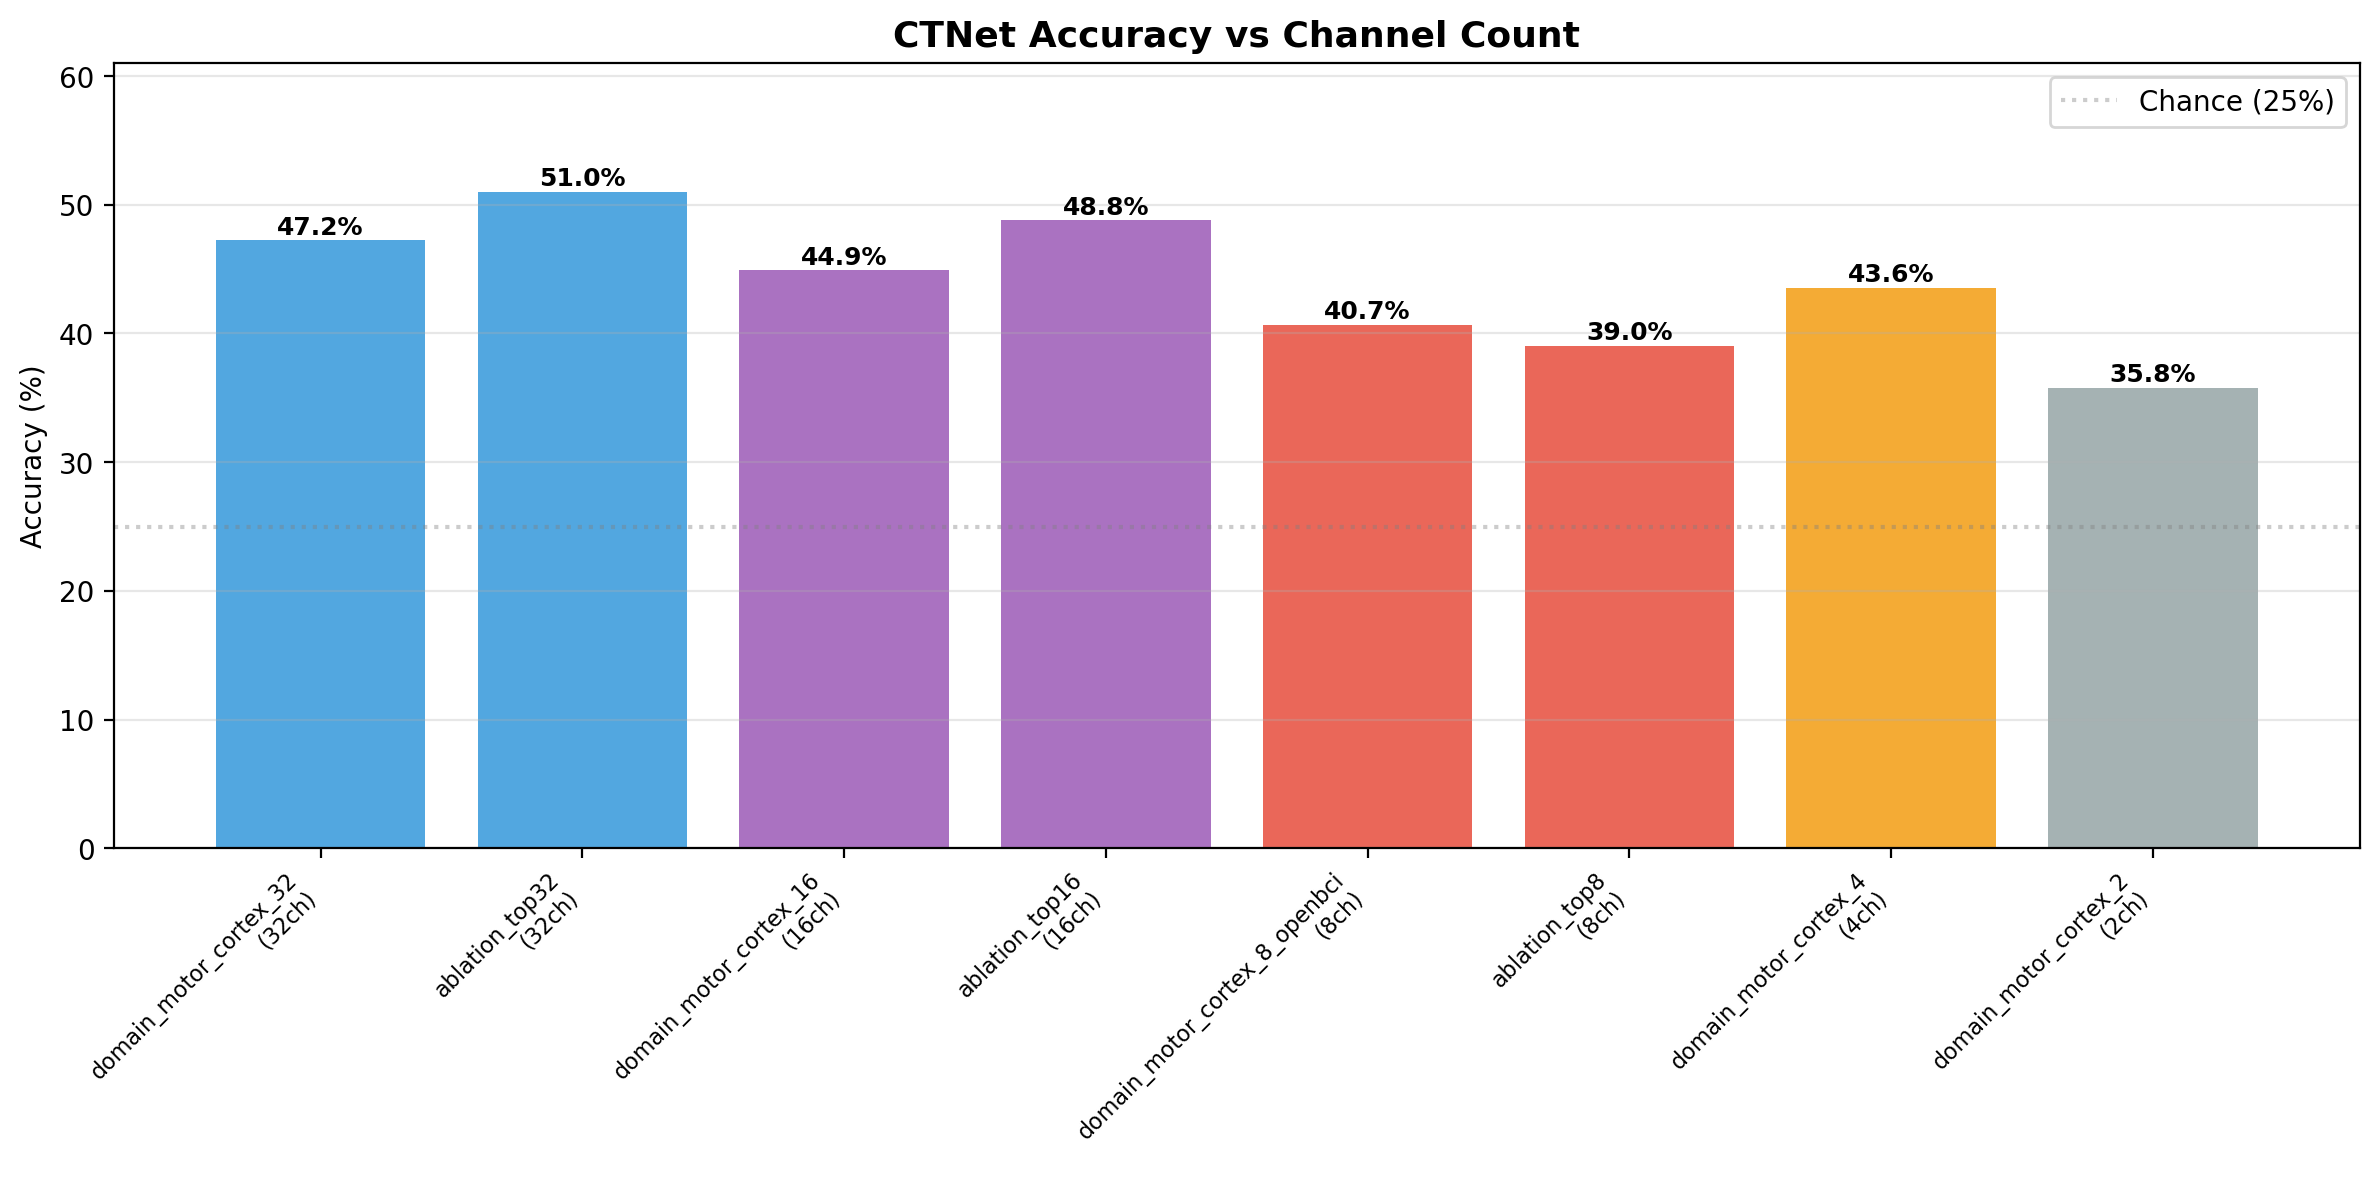
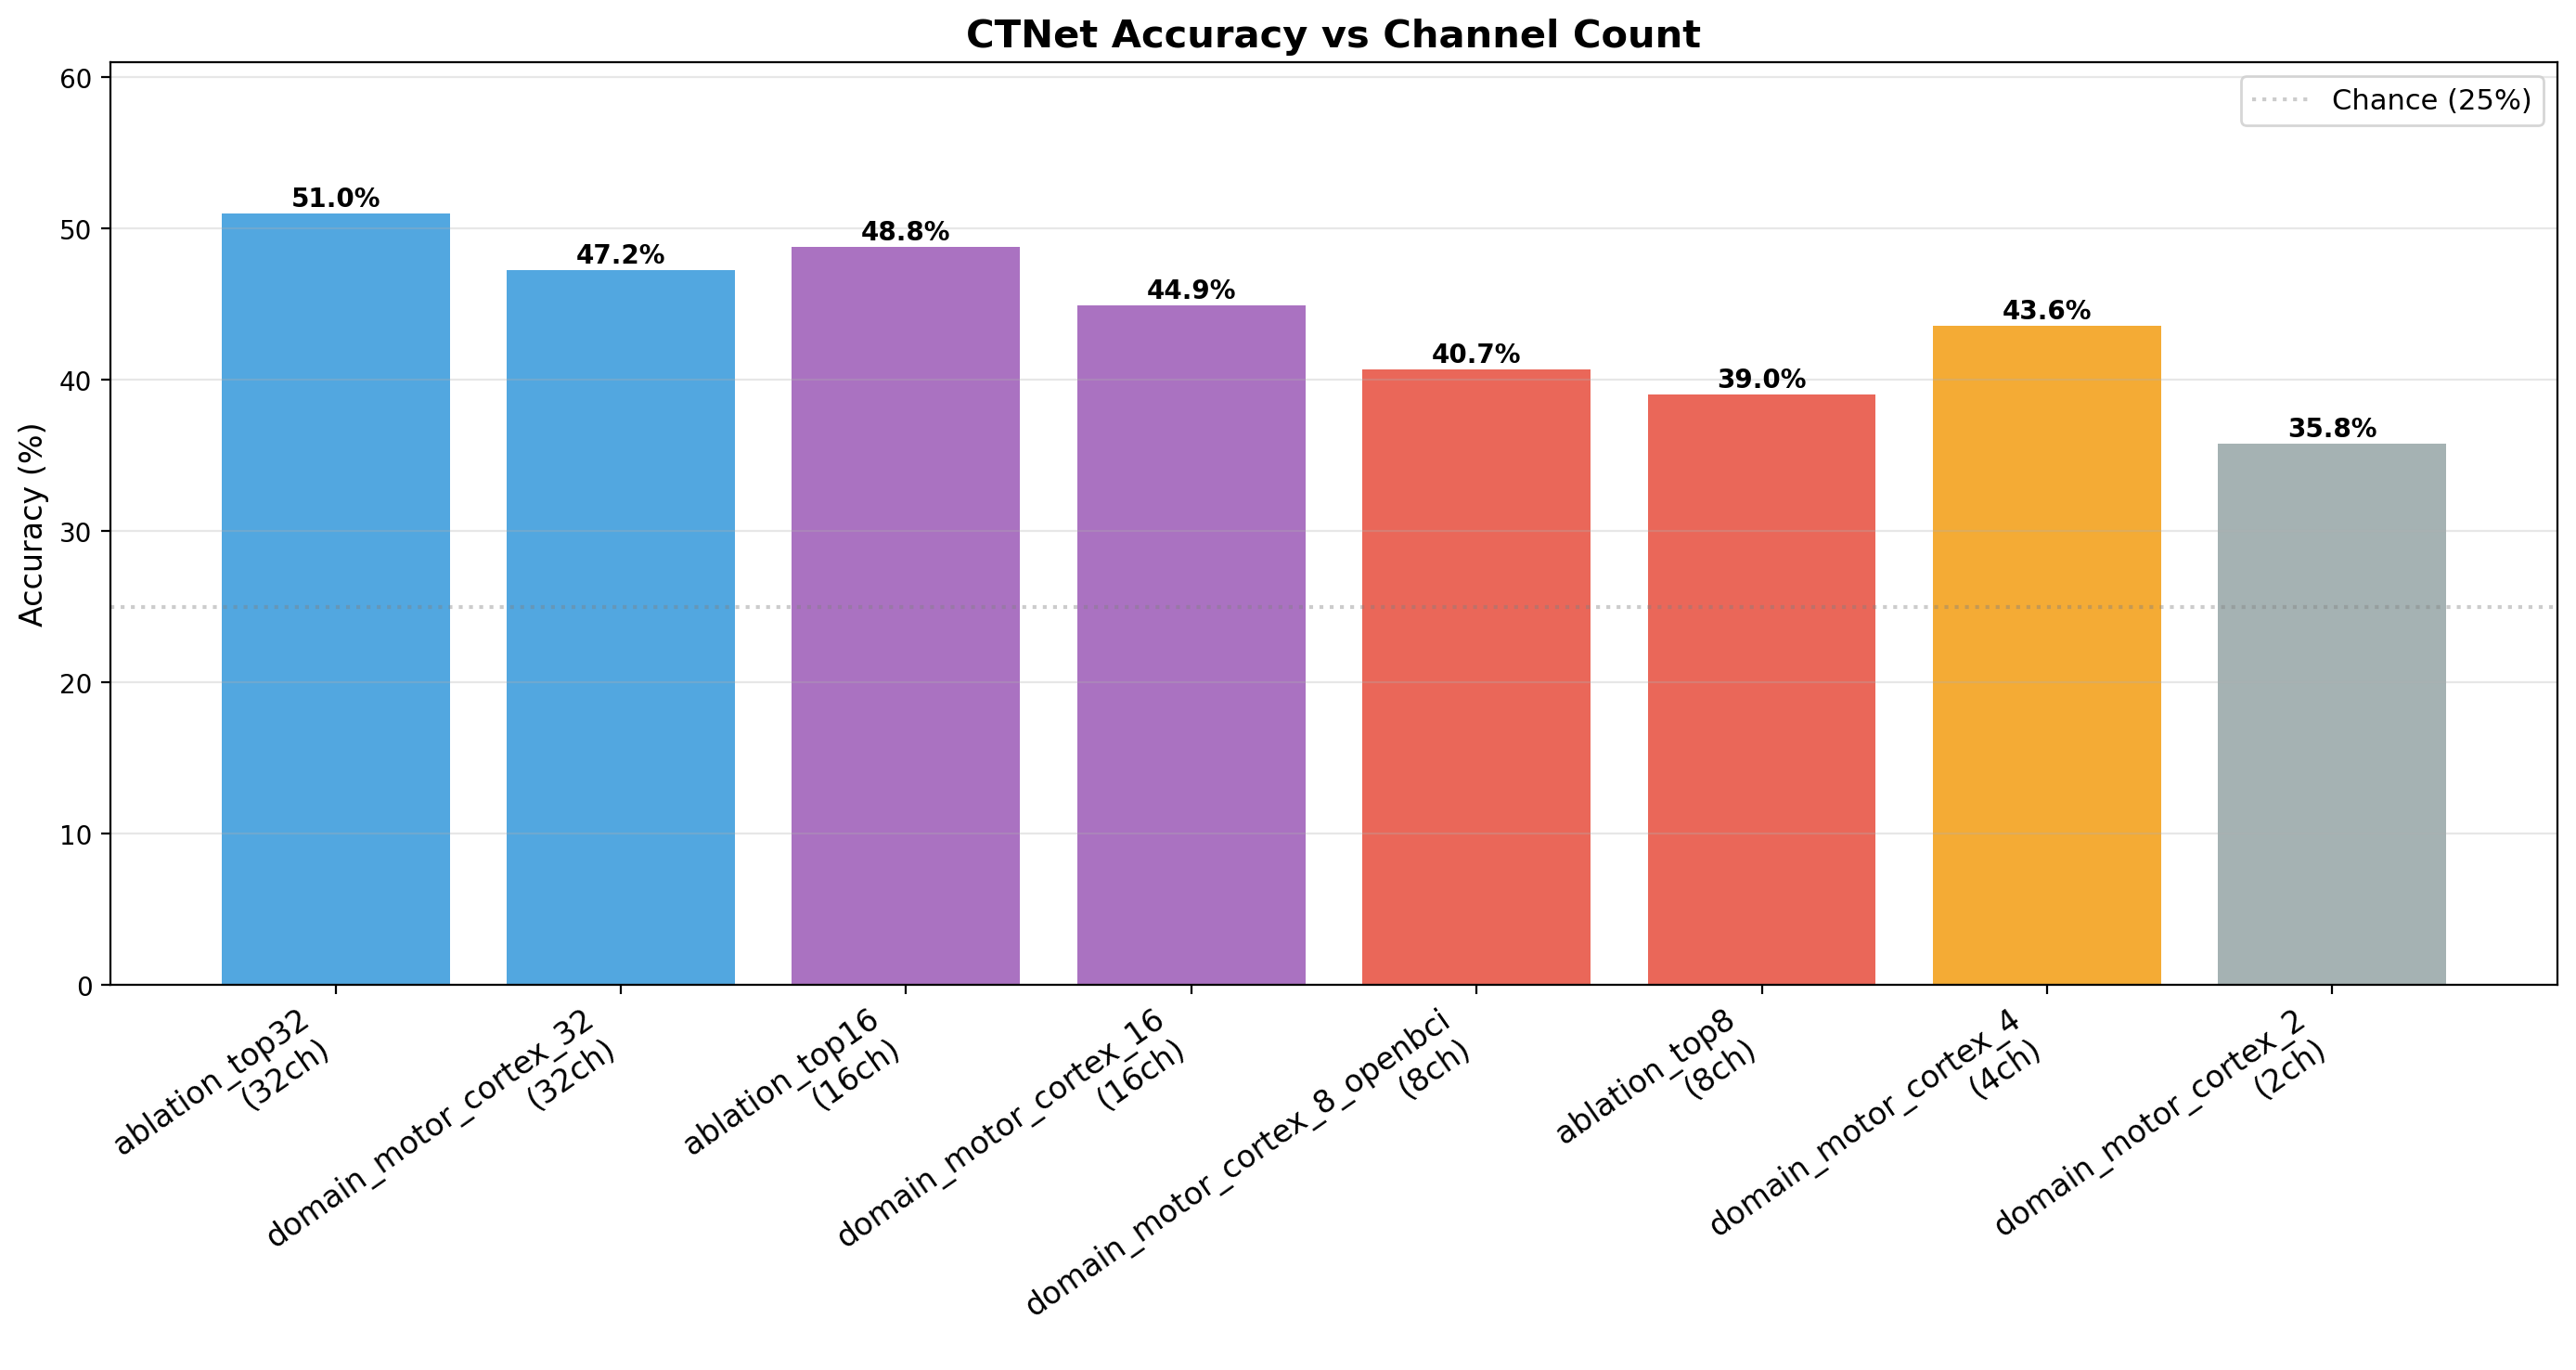
Refine final report v13 length and figures

diff --git a/01_Reports/final_report_draft_v13.tex b/01_Reports/final_report_draft_v13.tex
@@ -797,7 +797,7 @@ Figure~\ref{fig:channel_importance} explains why C3 appears repeatedly in the re
 
 \begin{figure}[htbp]
 \centering
-\includegraphics[width=0.78\textwidth]{../03_Experiments/Channel_Reduction/channel_reduction/channel_reduction_comparison.png}
+\includegraphics[width=0.92\textwidth]{../03_Experiments/Channel_Reduction/channel_reduction/channel_reduction_comparison.png}
 \caption{Cross-subject PhysioNet accuracy under progressive channel reduction. The comparison separates domain-guided motor-cortex subsets from ablation-ranked subsets, showing that channel identity matters as much as channel count.}
 \label{fig:channel_reduction_comparison}
 \end{figure}
@@ -955,7 +955,7 @@ ICA improved accuracy for two of three subjects (S3: $+1.74\%$; S7: $+5.56\%$) b
 
 \textbf{Filter Ablation Study.}\quad To definitively prove the necessity of the 8--30\,Hz bandpass filter, a controlled ablation experiment was conducted on PhysioNet data using the \emph{same fine-tuning protocol} as the main results. Five subjects (S3, S7, S9, S38, S43) were fine-tuned from the 109-subject pre-trained model under two conditions: (A)~with 8--30\,Hz bandpass filtering, and (B)~without any filtering (raw normalised data). Results are summarised in Table~\ref{tab:filter_ablation}.
 
-\begin{table}[h]
+\begin{table}[htbp]
 \centering
 \caption{Filter ablation study: subject-specific fine-tuning accuracy (\%) with and without 8--30\,Hz bandpass filtering.}
 \label{tab:filter_ablation}
@@ -1038,39 +1038,13 @@ The results show that the hybrid classifier remains competitive across heterogen
 \section{Project Management}
 %=============================================================================
 
-Project management formed part of the main project workflow throughout the year rather than being treated as a separate administrative task. An initial Gantt chart divided the work into sequential but partly overlapping packages: dataset preparation, reproduction of baseline classification pipelines, development of the hybrid EEGTransformer, transfer-learning experiments, channel reduction, RL control design, and finally hardware integration. This ordering was intentional. It reduced project risk by ensuring that later stages depended on earlier validated outputs rather than on untested assumptions. For example, the RL stage was postponed until a stable classification interface had been defined, and hardware-oriented work was not treated as the main validation route because ethical approval constraints made a simulation-first strategy more realistic.
+Project management was integrated into the technical workflow rather than treated as a separate administrative task. The initial Gantt chart divided the work into dataset preparation, baseline reproduction, EEGTransformer development, transfer learning, channel reduction, RL control, and hardware integration. This sequence reduced risk by making later stages depend on validated outputs. For example, RL development began only after a stable classifier interface was available, and hardware work remained secondary to offline and simulation validation because live human testing was outside the approved project scope.
 
-Progress was monitored through weekly supervision meetings, interim report drafts, and version-controlled code and experiment outputs. These checkpoints were not only administrative; they directly affected technical decisions. When early results showed that small 9-subject datasets were insufficient to support a strong cross-subject argument, the project scope was revised to include the 109-participant PhysioNet evaluation. Likewise, when OpenBCI deployment emerged as an important practical target, the channel-reduction study was elevated from an optional extension to a core work package. In this sense, scope change was managed through evidence rather than through ad hoc feature expansion: new tasks were added only when they strengthened the main research question.
+Progress was tracked through weekly supervision meetings, interim report drafts, version-controlled code, and saved experiment outputs. These checkpoints shaped the technical direction. Early 9-subject results were not sufficient for a strong cross-subject argument, so the scope was extended to the 109-participant PhysioNet evaluation. When OpenBCI deployment became a practical target, channel reduction moved from an optional extension to a core work package. The main deliverables were therefore tied to evidence: benchmark tables and saved models for classification, fine-tuning summaries for transfer learning, ablation plots for channel selection, RL logs for controller design, and BrainFlow traces for interface validation.
 
-Risk management was handled continuously alongside technical work. A formal health-and-safety assessment was maintained for the hardware aspects of the project, while technical risks were tracked through contingency planning. One major risk concerned the complexity of robotic control: a full high-DOF manipulation setting would have consumed disproportionate development time, so a simplified planar reaching environment was adopted for the main RL comparison. A second risk concerned dataset heterogeneity and weak cross-subject generalisation; this was mitigated by adding transfer learning and participant-specific fine-tuning rather than relying only on pooled models. A third risk concerned reproducibility, addressed through structured experiment scripts, saved model artefacts, and preservation of outputs under the repository's experiment directories.
+Risk management combined technical contingency planning with the formal University health-and-safety process. The main technical risks were excessive robotic-control complexity, weak cross-subject generalisation, and poor reproducibility. They were mitigated by using a planar reaching task for the main RL comparison, adding participant-specific fine-tuning, and preserving scripts, model artefacts, and experiment outputs in the repository. The health-and-safety assessment covered display-screen work, electrical equipment, lone working, fire risk, software/data loss, robotic-arm electrical setup, pinch or impact hazards, object displacement, and unexpected BCI-driven arm motion. Controls included ergonomic working practice, cable and power-supply inspection, keeping liquids away from electrical equipment, maintaining a clear operating zone, reduced-speed physical tests, workspace and velocity limits, clear warning before movement, a minimum 0.5\,m observer distance, and immediate power-off access. The formal artefact is stored as \texttt{05\_Documentation/Risk assessment form-11314389\_v3.pdf}.
 
-Health and safety was managed through the University risk-assessment process rather than left to informal judgement. The maintained assessment covered prolonged display-screen work, general electrical equipment, lone working, fire risk, software/data loss, robotic-arm electrical setup, mechanical pinch or impact hazards, object displacement, and unexpected BCI-driven arm motion. The main controls were ergonomic workstation practice and regular breaks; visual inspection of cables and power supplies; keeping liquids away from electrical equipment; maintaining an unobstructed operating zone around the arm; reduced-speed physical tests; software limits on workspace, velocity, and joint range; clear warning before movement; a minimum 0.5\,m observer distance; and immediate access to a power-off emergency stop. Because live human EEG testing was outside the approved project scope, the BCI evaluation used public datasets and simulation, which substantially reduced participant and hardware risk. The formal artefact is stored as \texttt{05\_Documentation/Risk assessment form-11314389\_v3.pdf}.
-
-The project budget was intentionally kept small by using public datasets, open-source software, and existing personal computing equipment. The only project-specific purchase was an SO-101 robotic arm kit from AliExpress, costing \pounds178.20. This kit included the 3D-printed arm components, servo motors, bench vice, controller/electronics board, and communication cables required for physical setup and serial-control testing. Model training was carried out on the author's own desktop computer with an Intel i9-13900K CPU and NVIDIA RTX 4070 Ti GPU; because this machine was already personally owned before the project, it is not counted as a project budget item.
-
-\begin{table}[htbp]
-\centering
-\caption{Major project deliverables and the evidence retained for assessment and reproducibility.}
-\label{tab:deliverable_evidence}
-\small
-\begin{tabular}{@{} >{\raggedright\arraybackslash}p{3.2cm} >{\raggedright\arraybackslash}p{4.6cm} >{\raggedright\arraybackslash}p{5.0cm} @{}}
-\toprule
-\textbf{Work package} & \textbf{Deliverable produced} & \textbf{Evidence retained} \\
-\midrule
-Classifier development & EEGTransformer adapted to 22-, 3-, 64-, and reduced-channel inputs & Training scripts, saved model outputs, benchmark tables, and architecture diagram \\
-Transfer learning & Pooled PhysioNet model plus participant-specific fine-tuning workflow & Fine-tuning summaries, per-subject fold results, and comparison figure \\
-Channel reduction & Ranked electrodes and OpenBCI-oriented 8-channel configuration & Ablation outputs, channel-importance plots, topographic visualisation, and reduced-channel accuracy comparison \\
-Controller design & Transformer and Light Transformer DQN policies for planar reaching & Architecture-comparison logs, reward/reach metrics, and saved policy artefacts \\
-End-to-end integration & EEG classification output connected to simulated robotic control & Multi-subject sequence logs and comparison between state-only and EEG-augmented control \\
-Hardware pathway & BrainFlow acquisition wrapper and SO-101 serial-control interface & Synthetic-board validation logs, position traces, and risk controls for future physical testing \\
-Project governance & Planning, risk assessment, health-and-safety record, and CPD evidence & Gantt chart, risk register, health-and-safety artefact, CPD log, and repository README \\
-\bottomrule
-\end{tabular}
-\end{table}
-
-Table~\ref{tab:deliverable_evidence} shows how the project was made auditable. Each work package produced both an implemented artefact and a retained evidence trail. This was important because the report could otherwise understate the amount of engineering work behind the final figures. For example, the channel-reduction result is not only a single 8-channel accuracy value; it is supported by ablation rankings, domain-guided electrode selection, topographic inspection, and a separate fine-tuning recovery experiment. Similarly, the hardware pathway is not presented as a completed live-user BCI, but it is supported by interface-level checks that make the remaining ethical and experimental steps clearer for a future continuation project.
-
-Time management also required deliberate balancing between implementation, experimentation, and writing. The software pipeline could easily have expanded indefinitely, especially on the hardware side, so milestones were defined in terms of verifiable deliverables: a reproducible classification result, a validated transfer-learning workflow, a reduced-channel comparison, an RL controller benchmark, and an end-to-end simulation. This helped prevent late-stage work from drifting into open-ended engineering. Self-directed learning was planned as part of project delivery as well, particularly in MNE-Python, PyTorch, Transformer models, BrainFlow integration, and simulation tooling. The supporting artefacts referenced in this section, including the final project plan, risk documentation, and CPD record, are listed in the appendices.
+The budget was kept small by using public datasets, open-source software, and existing personal computing hardware. The only project-specific purchase was an SO-101 robotic arm kit from AliExpress, costing \pounds178.20 and including the 3D-printed arm parts, servo motors, bench vice, controller/electronics board, and communication cables. Model training used the author's existing desktop computer with an Intel i9-13900K CPU and NVIDIA RTX 4070 Ti GPU, so it is not counted as a project budget item. The supporting planning, risk, health-and-safety, CPD, and repository artefacts are listed in the appendices.
 
 %=============================================================================
 \section{Conclusions and Future Work}
@@ -1080,21 +1054,21 @@ Time management also required deliberate balancing between implementation, exper
 \subsection{Conclusions}
 %-----------------------------------------------------------------------------
 
-This project developed a complete BCI-to-robot control pipeline that addresses three longstanding challenges in the field. The EEGTransformer combines convolutional spatial filtering with Transformer-based temporal modelling, achieving competitive accuracies across three datasets (73.80\% on IV-2a, 82.87\% on IV-2b, and 88.78\% on PhysioNet with fine-tuning) and confirming that the hybrid architecture generalises across electrode densities, class counts, and subject populations. Transfer learning via subject-specific fine-tuning bridged the 32-percentage-point cross-subject generalisation gap with minimal calibration data. A systematic channel reduction study established that an offline 8-channel configuration compatible with the OpenBCI Cyton retains 72.54\% accuracy after fine-tuning, identifying C3 as the most critical motor cortex electrode. An end-to-end evaluation demonstrated that the Transformer DQN achieves 99\% control success even when driven by 82\%-accurate EEG classifications, directly quantifying the value of closing the control loop. A controlled ICA comparison showed only marginal preprocessing benefit ($+1.51\%$), leading to an empirically motivated decision to adopt a bandpass-only pipeline.
+This project developed a BCI-to-robot control pipeline addressing three longstanding challenges in the field. The EEGTransformer combines convolutional spatial filtering with Transformer-based temporal modelling, achieving competitive accuracies across three datasets (73.80\% on IV-2a, 82.87\% on IV-2b, and 88.78\% on PhysioNet with fine-tuning) and generalising across electrode densities, class counts, and subject populations. Subject-specific fine-tuning bridged the 32-percentage-point cross-subject generalisation gap with minimal calibration data. The channel reduction study showed that an offline 8-channel configuration compatible with the OpenBCI Cyton retains 72.54\% accuracy after fine-tuning, with C3 the most critical motor cortex electrode. End-to-end evaluation showed that the Transformer DQN achieves 99\% control success even with 82\%-accurate EEG classifications, quantifying the value of closing the control loop. A controlled ICA comparison showed only marginal preprocessing benefit ($+1.51\%$), supporting the bandpass-only pipeline.
 
-All software components---EEG preprocessing, deep learning classification, reinforcement learning control, and simulated robotic arm control---have been implemented and validated. The EEG components were evaluated offline on pre-recorded datasets, while the control components were evaluated in PyBullet simulation. Future work with appropriate ethical clearance would validate the closed-loop system with live human subjects and physical hardware.
+All software components, spanning EEG preprocessing, deep learning classification, reinforcement learning control, and simulated robotic arm control, have been implemented and validated. The EEG components were evaluated offline on pre-recorded datasets, and the control components in PyBullet simulation. Future work with appropriate ethical clearance should validate the closed-loop system with live human subjects and physical hardware.
 
 %-----------------------------------------------------------------------------
 \subsection{Future Work}
 %-----------------------------------------------------------------------------
 
-If this project were handed to a new student next year, the first recommendation would be to turn the current simulation-first pipeline into an ethically approved live-user study. That would involve preparing an experimental protocol, participant information sheet, consent form, and risk assessment for OpenBCI data collection, then collecting a small but well-controlled calibration dataset using the 8-channel montage identified here. This would directly test whether the offline channel-reduction result transfers to real low-cost hardware.
+If this project were handed to a new student next year, the first recommendation would be an ethically approved live-user study. This would require an experimental protocol, participant information sheet, consent form, and risk assessment for OpenBCI data collection, followed by a small, controlled calibration dataset using the 8-channel montage identified here. That study would test whether the offline channel-reduction result transfers to real low-cost hardware.
 
-The second recommendation would be to build a native real-time 8-channel inference path rather than adapting the 64-channel PhysioNet workflow after the fact. The next version should train and calibrate models using the exact OpenBCI channel order, sampling rate, filtering, normalisation, and electrode-placement constraints expected during deployment. This would reduce the train--deployment mismatch and make the system easier to reproduce by another user.
+The second recommendation is a native real-time 8-channel inference path rather than adapting the 64-channel PhysioNet workflow after the fact. The next version should train and calibrate models using the exact OpenBCI channel order, sampling rate, filtering, normalisation, and electrode-placement constraints expected during deployment. This would reduce the train--deployment mismatch and improve reproducibility.
 
-The third recommendation would be to reduce command latency. The present design uses a 4.0\,s online window because it matches the 1000-sample CTNet input convention, but a practical robot controller would benefit from shorter overlapping windows, confidence-based rejection, and asynchronous MI detection. A useful continuation would compare 1\,s, 2\,s, and 4\,s windows under the same classifier and RL policy to quantify the accuracy--latency trade-off.
+The third recommendation is to reduce command latency. The present design uses a 4.0\,s online window because it matches the 1000-sample CTNet input convention, but practical robot control would benefit from shorter overlapping windows, confidence-based rejection, and asynchronous MI detection. A useful continuation would compare 1\,s, 2\,s, and 4\,s windows under the same classifier and RL policy to quantify the accuracy--latency trade-off.
 
-Finally, future work should extend the controller from the current planar reaching abstraction toward richer SO-101 manipulation. A natural progression is to retain the present 4-direction policy as a safety baseline, then add 8-direction or 6-DOF actions only after the live EEG decoder and emergency-stop controls have been validated. Online adaptive fine-tuning should also be investigated so that the model can update to each user's current EEG distribution without requiring a full recalibration session.
+Finally, future work should extend the controller from planar reaching toward richer SO-101 manipulation. A natural progression is to retain the present 4-direction policy as a safety baseline, then add 8-direction or 6-DOF actions after validating the live EEG decoder and emergency-stop controls. Online adaptive fine-tuning should also be investigated so that the model can track each user's current EEG distribution without requiring full recalibration.
 
 \begin{thebibliography}{99}
 \bibitem{hameed2025enhancing}

diff --git a/02_Code/EEG_Classification/channel_reduction_study.py b/02_Code/EEG_Classification/channel_reduction_study.py
@@ -732,7 +732,7 @@ def _print_summary(all_results, output_dir):
         json.dump(all_results, f, indent=2)
 
     # Comparison bar chart
-    fig, ax = plt.subplots(figsize=(12, 6))
+    fig, ax = plt.subplots(figsize=(14, 7.5))
     names = [r['name'] for r in all_results]
     accs = [r['accuracy'] * 100 for r in all_results]
     n_chs = [r['n_channels'] for r in all_results]
@@ -744,19 +744,19 @@ def _print_summary(all_results, output_dir):
     bars = ax.bar(range(len(names)), accs, color=colors, alpha=0.85)
     for bar, a in zip(bars, accs):
         ax.text(bar.get_x() + bar.get_width() / 2, bar.get_height() + 0.5,
-                f'{a:.1f}%', ha='center', fontweight='bold', fontsize=9)
+                f'{a:.1f}%', ha='center', fontweight='bold', fontsize=10)
 
     ax.set_xticks(range(len(names)))
     ax.set_xticklabels([f"{n}\n({c}ch)" for n, c in zip(names, n_chs)],
-                       rotation=45, ha='right', fontsize=8)
-    ax.set_ylabel('Accuracy (%)')
-    ax.set_title('CTNet Accuracy vs Channel Count', fontweight='bold', fontsize=13)
+                       rotation=35, ha='right', fontsize=12)
+    ax.set_ylabel('Accuracy (%)', fontsize=12)
+    ax.set_title('CTNet Accuracy vs Channel Count', fontweight='bold', fontsize=15)
     ax.axhline(y=25, color='gray', ls=':', alpha=0.4, label='Chance (25%)')
-    ax.legend()
+    ax.legend(fontsize=11)
     ax.grid(True, axis='y', alpha=0.3)
     ax.set_ylim(0, max(accs) + 10)
 
-    plt.tight_layout()
+    plt.tight_layout(pad=1.2)
     plt.savefig(output_dir / "channel_reduction_comparison.png", dpi=200, bbox_inches='tight')
     plt.close()
     print(f"\n  Comparison plot saved: {output_dir / 'channel_reduction_comparison.png'}")